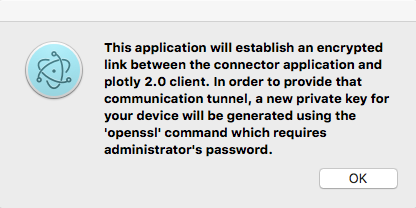
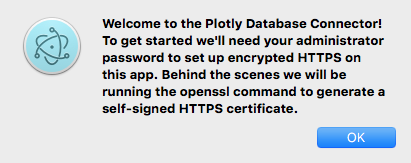
:wrench: PR comments part 2

Changed region(s): [[0.2336, 0.092, 0.9343, 0.7669], [0.0584, 0.1227, 0.2044, 0.4908], [0.7591, 0.7669, 0.9635, 0.9202]]

diff --git a/setupServers.js b/setupServers.js
@@ -1,7 +1,7 @@
 import * as fs from 'fs';
 import restify from 'restify';
 import {setupRoutes} from './routes';
-const {dialog} = require('electron');
+import {dialog} from 'electron';
 import sudo from 'electron-sudo';
 import {replace, splitAt} from 'ramda';
 
@@ -12,12 +12,16 @@ const httpsMessage = 'Welcome to the Plotly Database Connector! ' +
 
 // asking for sudo more than once, but show a dialog window only once
 let messageShown = false;
-const showSudoMessage = () => {
+const showSudoMessage = (sequelizeManager, OPTIONS) => {
     if (!messageShown) {
         messageShown = true;
-        dialog.showMessageBox(
-            {type: 'info', buttons: ['OK'], message: httpsMessage}
-        );
+        if (OPTIONS.headless) {
+            sequelizeManager.log(httpsMessage, 1);
+        } else {
+            dialog.showMessageBox(
+                {type: 'info', buttons: ['OK'], message: httpsMessage}
+            );
+        }
     }
 };
 
@@ -45,6 +49,7 @@ const setupSecureRestifyServer = (
     setupRoutes(server, serverMessageReceive(
         sequelizeManager, mainWindow.webContents)
     );
+
 };
 
 export function setupHTTP(
@@ -62,6 +67,7 @@ export function setupHTTP(
     setupRoutes(server, serverMessageReceive(
         sequelizeManager, mainWindow.webContents)
     );
+
 }
 
 export function setupHTTPS(
@@ -107,9 +113,10 @@ export function setupHTTPS(
 
     // redirect connectorURL to localhost
     try {
+
         fs.readFile(hosts, function (err, data) {
             if (data.indexOf(connectorURL) < 0) {
-                showSudoMessage();
+                showSudoMessage(sequelizeManager, OPTIONS);
                 sudo.exec(`sh  "${scriptsDirectory}"/ssl/redirectConnector.sh`,
                     sudoOptions, function(error) {
                     if (error) {
@@ -127,12 +134,14 @@ export function setupHTTPS(
                 );
             }
         });
+
     } catch (error) {
         sequelizeManager.log(error, 0);
     }
 
     // setup HTTPS server with self signed certs
     try {
+
         // try reading certs
         fs.accessSync(keyFile, fs.F_OK);
         fs.accessSync(csrFile, fs.F_OK);
@@ -142,10 +151,13 @@ export function setupHTTPS(
             {keyFile, csrFile, sequelizeManager,
             serverMessageReceive, mainWindow, OPTIONS}
         );
+
     } catch (e) {
+
         sequelizeManager.log('Did not find certificate, generating...', 1);
+
         // if error returned, certs do not exist -- let's create them
-        showSudoMessage();
+        showSudoMessage(sequelizeManager, OPTIONS);
         sudo.exec(
             `sh  "${scriptsDirectory}"/ssl/createKeys.sh`, sudoOptions,
             function(error) {
@@ -163,7 +175,7 @@ export function setupHTTPS(
                 require('electron').shell
                     .openExternal('http://connector.plot.ly:5000/steps');
             }
-
         });
+
     }
 }

diff --git a/ssl/finished.html b/ssl/finished.html
@@ -1,11 +1,57 @@
 <!DOCTYPE html>
-<html>
+<html lang="en">
 <head>
-<title>Your connection is now secure.</title>
+
+    <!-- Basic Page Needs
+    –––––––––––––––––––––––––––––––––––––––––––––––––– -->
+    <meta charset="utf-8">
+    <title>Steps for Plotly Secure Connector</title>
+    <meta name="description" content="">
+    <meta name="author" content="">
+
+    <!-- Mobile Specific Metas
+    –––––––––––––––––––––––––––––––––––––––––––––––––– -->
+    <meta name="viewport" content="width=device-width, initial-scale=1">
+
+    <!-- FONT
+    –––––––––––––––––––––––––––––––––––––––––––––––––– -->
+    <link href="//fonts.googleapis.com/css?family=Raleway:400,300,600" rel="stylesheet" type="text/css">
+
+    <!-- CSS
+    –––––––––––––––––––––––––––––––––––––––––––––––––– -->
+    <link rel="stylesheet" href="ssl/css/normalize.css">
+    <link rel="stylesheet" href="ssl/css/skeleton.css">
+
+    <!-- Favicon
+    –––––––––––––––––––––––––––––––––––––––––––––––––– -->
+    <link rel="icon" type="image/png" href="images/favicon.png">
+
 </head>
 <body>
 
-<h1>have a banana</h1>
+    <!-- Primary Page Layout
+    –––––––––––––––––––––––––––––––––––––––––––––––––– -->
+    <div class="container">
+        <div class="row">
+            <div class="one-half column" style="margin-top: 10%">
+                <h4>Steps on how to configure your https connection.</h4>
+                <body>
 
-</body>
+                <div>
+                    <h5>Step 8</h5>
+                    <p>
+                    The connection is now secure! All data transferes to plot.ly can now be done using the
+                    https protocol. Go to <a href="https://plot.ly/alpha/workspace">plot.ly workspace</a> and
+                    and specify the endpoint to be <b>https://connector.plot.ly:5001</b> if the port number was
+                    left as default.
+                    </p>
+                    <img src="ssl/images/workspace.png">
+                </div>
+            </div>
+        </div>
+    </div>
+
+        <!-- End Document
+        –––––––––––––––––––––––––––––––––––––––––––––––––– -->
+    </body>
 </html>

diff --git a/app/components/Settings/Settings.react.js b/app/components/Settings/Settings.react.js
@@ -133,6 +133,11 @@ export default class Settings extends Component {
                         Remember to keep this app running
                         while you are making queries!
                     </div>
+                    <img
+                        src="./images/workspace.png"
+                        className={styles.workspace}
+                    >
+                    </img>
                 </div>
             );
         }
@@ -159,10 +164,6 @@ export default class Settings extends Component {
                         Plotly 2.0 Database Connector
                     </h4>
                     <div className={styles.info}>
-                        This application is running on
-                        <b>&nbsp;http://localhost:{OPTIONS.port}</b> and
-                        <b>&nbsp;https://connector.plot.ly:{OPTIONS.port + 1}</b>
-                        <br/>
                         Learn more
                         <a onClick={() => {
                             shell.openExternal(httpsGithubIssue);

diff --git a/main.development.js b/main.development.js
@@ -36,7 +36,7 @@ app.on('ready', () => {
 
     // TODO: shell scripts for HTTPS setup may not work on windows atm
     if (
-        process.platform === 'darwin' &&
+        (process.platform === 'darwin' || process.platform === 'linux') &&
         !contains('--test-type=webdriver', process.argv.slice(2))
     ) {
         setupHTTPS(

diff --git a/app/components/Settings/Settings.css b/app/components/Settings/Settings.css
@@ -22,8 +22,19 @@
 	padding-bottom: 30px;
 }
 
+.workspace {
+	height: 50%;
+	width: 50%;
+	display: block;
+	margin-left: auto;
+	margin-right:auto;
+	padding-bottom: 30px;
+	padding-top: 30px;
+}
+
 .info {
 	padding: 25px;
+    font-size: 14px;
 }
 
 .userCredentials {
